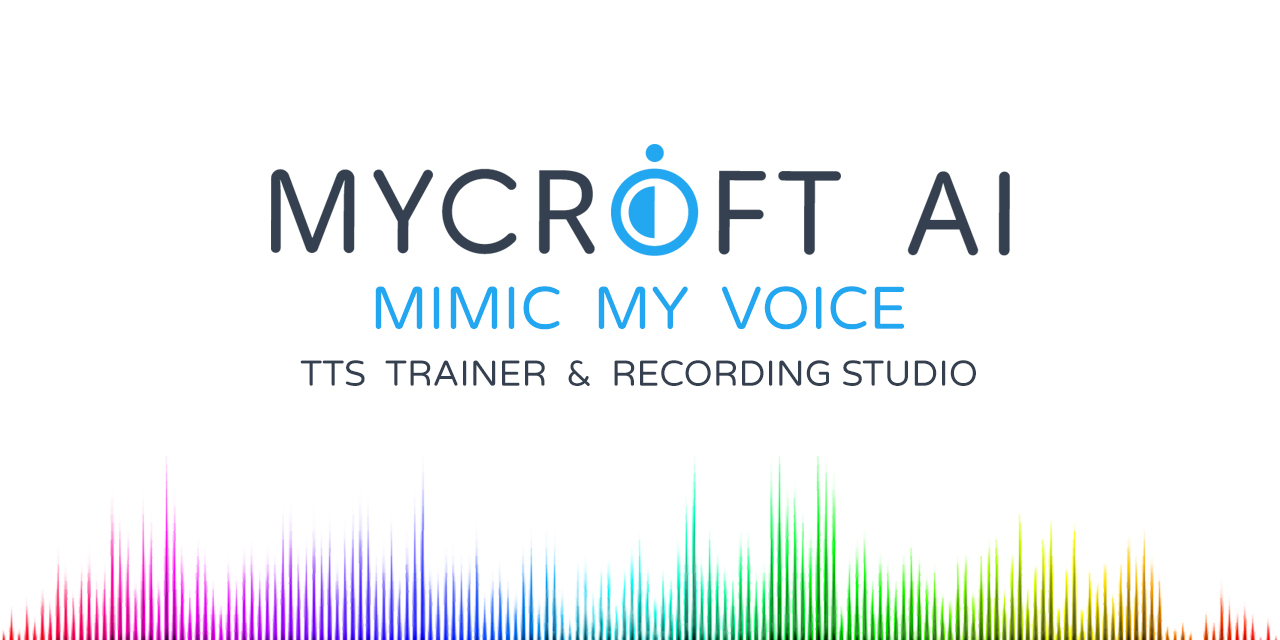
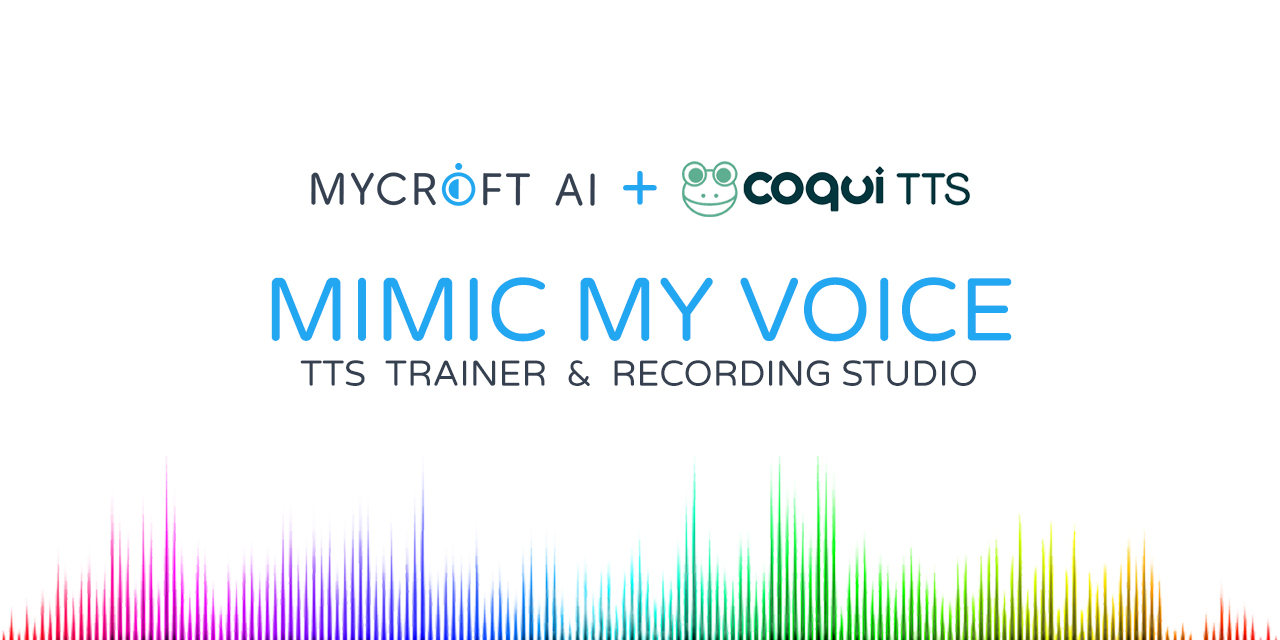
Updating Documentation

Changed region(s): [[0.1875, 0.2188, 0.8125, 0.4062], [0.1875, 0.4375, 0.7812, 0.5312]]

diff --git a/docs/cmd-config.md b/docs/cmd-config.md
@@ -1,4 +1,4 @@
-![Logo](img/mycroft-logo.png "Logo")
+![Header Logo](img/header.png "Header Logo")
 
 **[↤ Developer Overview](../README.md#developer-overview)**
 
@@ -30,11 +30,11 @@ Mimic Recording Studio Configuration
 
 Name                 | Example              | Definition
 ---------------------|----------------------|-----------------------------------------------
-PORT_STUDIO_BACKEND  | `5000`               | This is the Port you want use for Mimic Recording Studios Back-end API
-PORT_STUDIO_FRONTEND | `3000`               | This is the Port you want use for Mimic Recording Studios Front-end Client
-CORPUS <sup>1</sup>  | `english_corpus.csv` | Name of the CSV file to use in the prompts directory
+MRS_PORT_BACKEND  | `5000`               | This is the Port you want use for Mimic Recording Studios Back-end API
+MRS_PORT_FRONTEND | `3000`               | This is the Port you want use for Mimic Recording Studios Front-end Client
+MRS_CORPUS_CSV <sup>1</sup>  | `english_corpus.csv` | Name of the CSV file to use in the prompts directory
 
 Footnotes
 ---
 
-1. If you have a custom CSV file you want to read from, place it in the `mimic-my-voice/mimic-recording-studio/backend/prompts/` directory and set the `CORPUS` configuration option to be just the file name.
+1. If you have a custom CSV file you want to read from, place it in the `mimic-my-voice/mimic-recording-studio/backend/prompts/` directory and set the `MRS_CORPUS_CSV` configuration option to be just the file name.

diff --git a/README.md b/README.md
@@ -1,18 +1,18 @@
-![Logo](docs/img/mycroft-logo.png "Logo")
+![Header Logo](docs/img/header.png "Header Logo")
 
 Mimic My Voice
 ===
 
-> Create a Text to Speech Engine using Your Own Voice with Mycroft Mimic Trainer & Mimic Recording Studio.
+> Create a Text to Speech Engine using Your Own Voice with Mycroft's Mimic Recording Studio & Coqui Text to Speech.
 
-### NOTE:  This is a Work in Progress ( Currently only works on MacOS, but I have not completed Model Training Automation yet )
+### NOTE:  This is a Work in Progress
 
 ![demo](docs/img/demo.gif "demo")
 
 ## Features
 
 - [X] [Mycroft Recording Studio](https://github.com/manifestinteractive/mimic-recording-studio) Custom Build and Setup Automation
-- [X] [Mycroft Mimic II Trainer](https://github.com/manifestinteractive/mimic2) Custom Build and Setup Automation
+- [X] [Coqui TTS](https://github.com/manifestinteractive/tts) Custom Build and Setup Automation
 - [X] [AWS S3](https://aws.amazon.com/s3/) Backup & Restore
 
 ## Requirements

diff --git a/docs/cmd-backup.md b/docs/cmd-backup.md
@@ -1,4 +1,4 @@
-![Logo](img/mycroft-logo.png "Logo")
+![Header Logo](img/header.png "Header Logo")
 
 **[↤ Developer Overview](../README.md#developer-overview)**
 

diff --git a/docs/cmd-help.md b/docs/cmd-help.md
@@ -1,4 +1,4 @@
-![Logo](img/mycroft-logo.png "Logo")
+![Header Logo](img/header.png "Header Logo")
 
 **[↤ Developer Overview](../README.md#developer-overview)**
 

diff --git a/docs/cmd-restore.md b/docs/cmd-restore.md
@@ -1,4 +1,4 @@
-![Logo](img/mycroft-logo.png "Logo")
+![Header Logo](img/header.png "Header Logo")
 
 **[↤ Developer Overview](../README.md#developer-overview)**
 

diff --git a/docs/cmd-setup.md b/docs/cmd-setup.md
@@ -1,4 +1,4 @@
-![Logo](img/mycroft-logo.png "Logo")
+![Header Logo](img/header.png "Header Logo")
 
 **[↤ Developer Overview](../README.md#developer-overview)**
 

diff --git a/docs/cmd-studio.md b/docs/cmd-studio.md
@@ -1,4 +1,4 @@
-![Logo](img/mycroft-logo.png "Logo")
+![Header Logo](img/header.png "Header Logo")
 
 **[↤ Developer Overview](../README.md#developer-overview)**
 

diff --git a/docs/cmd-train.md b/docs/cmd-train.md
@@ -1,4 +1,4 @@
-![Logo](img/mycroft-logo.png "Logo")
+![Header Logo](img/header.png "Header Logo")
 
 **[↤ Developer Overview](../README.md#developer-overview)**
 

diff --git a/docs/troubleshooting.md b/docs/troubleshooting.md
@@ -1,4 +1,4 @@
-![Logo](img/mycroft-logo.png "Logo")
+![Header Logo](img/header.png "Header Logo")
 
 **[↤ Developer Overview](../README.md#developer-overview)**
 
